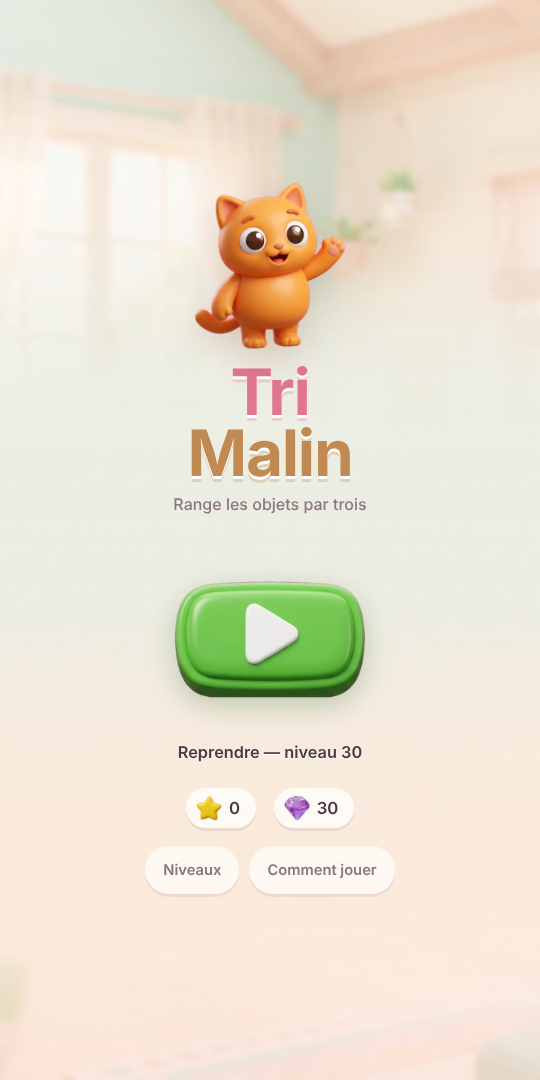
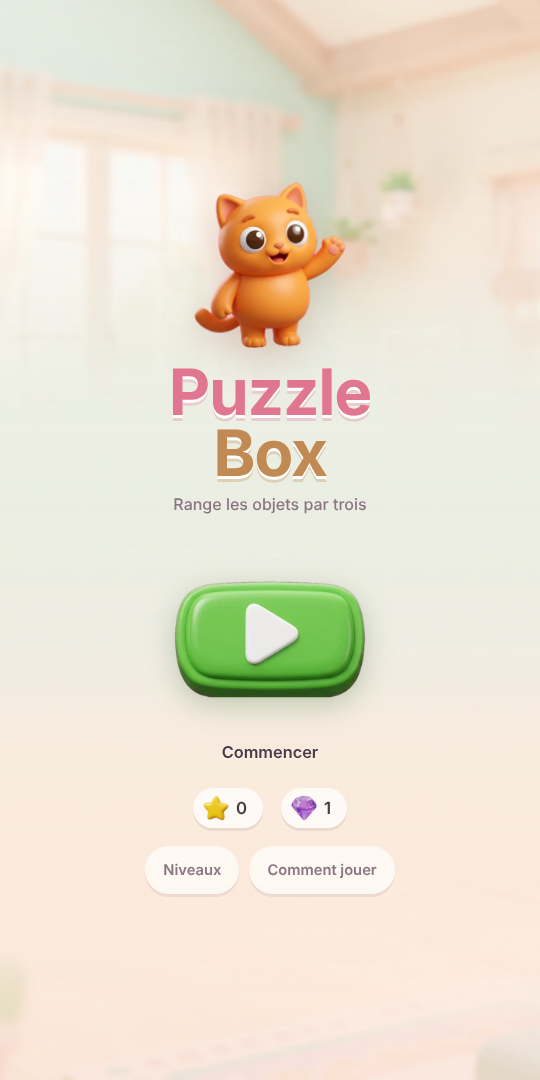
feat: renomme le jeu en Puzzle Box
Manifeste (name, short_name, description, label des captures), titre de la
page, meta description, logo du menu et README. Nouvelle empreinte de cache
du service worker pour que les navigateurs recuperent la nouvelle version.

L'URL reste /tri-malin/ : elle n'est pas visible par les joueurs dans une TWA,
et la changer casserait le lien deja valide par PWABuilder.

Claude-Session: https://claude.ai/code/session_01BahMhQqA14oYRhanNmepi1

diff --git a/index.html b/index.html
@@ -3,8 +3,8 @@
 <head>
 <meta charset="utf-8">
 <meta name="viewport" content="width=device-width, initial-scale=1, viewport-fit=cover, user-scalable=no">
-<title>Tri Malin</title>
-<meta name="description" content="Range les objets par trois dans les bacs. Un puzzle de tri calme et malin.">
+<title>Puzzle Box</title>
+<meta name="description" content="Range les objets par trois dans les bacs. Un puzzle de tri calme, jouable hors ligne.">
 <meta name="theme-color" content="#f4a9b8">
 <link rel="manifest" href="manifest.webmanifest">
 <link rel="icon" href="icons/favicon-32.png" sizes="32x32">
@@ -22,7 +22,7 @@
 <section id="screen-menu" class="screen is-active">
   <div class="menu-wrap">
     <img class="menu-mascot" src="assets/ui/chat-salut.webp" alt="" width="320" height="320">
-    <h1 class="logo"><span class="logo-a">Tri</span><span class="logo-b">Malin</span></h1>
+    <h1 class="logo"><span class="logo-a">Puzzle</span><span class="logo-b">Box</span></h1>
     <p class="tagline">Range les objets par trois</p>
 
     <button class="btn-img btn-start" type="button" data-action="start" aria-label="Jouer">

diff --git a/sw.js b/sw.js
@@ -1,5 +1,5 @@
-/* Tri Malin — service worker */
-const CACHE = 'tri-malin-d4ac2a44e9';
+/* Puzzle Box — service worker */
+const CACHE = 'puzzle-box-bc1f4aac46';
 const ASSETS = [
   "./",
   "index.html",

diff --git a/README.md b/README.md
@@ -1,4 +1,4 @@
-# Tri Malin
+# Puzzle Box
 
 Jeu de puzzle de tri pour mobile, installable (PWA) et jouable hors ligne.
 Range trois objets identiques dans un même bac pour les faire disparaître, et vide le plateau.
